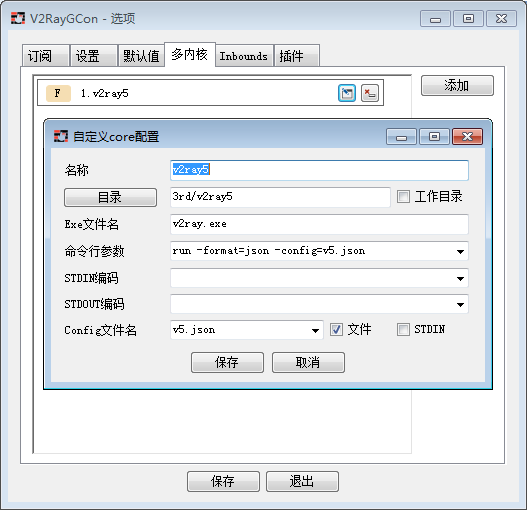
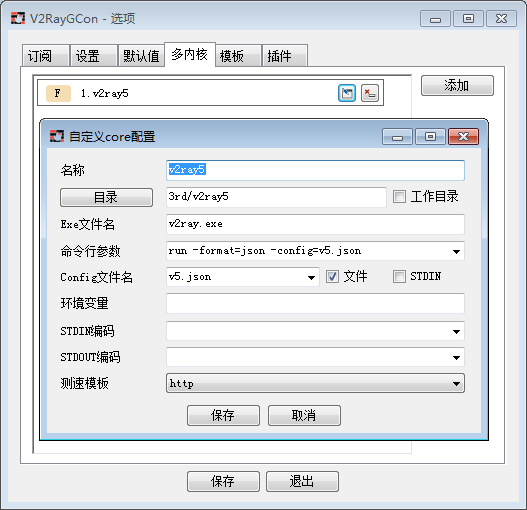
v1.8.6.0

diff --git a/content/01-usage/15-custom-inbounds.md b/content/01-usage/15-custom-inbounds.md
@@ -7,29 +7,36 @@ weight: 15
 
 选项窗口的`默认值`分页可以修改导入链接的默认配置。
 {{< figure src="../../images/forms/form_option_defaults.png" >}}
-`默认模式`对应`Inbounds`分页的配置名字，软件自带了config, http, socks三种配置，可以自行修改、添加更多配置  
+`默认模式`对应`模板`分页的配置名字，软件自带了config, http, socks三种配置，可以自行修改、添加更多配置  
 `默认core`对应`多内核`分页的配置名字  
 `解码模板`用于修改（仅限）vmess协议的outbounds配置。具体参考[vmess outbound模板](https://raw.githubusercontent.com/vrnobody/V2RayGCon/master/V2RayGCon/Resources/Files/templates/custom/vmessDecodeTemplate.json)  
 
-##### Inbounds(分页)
-{{< figure src="../../images/forms/form_custom_inbound_editor.png" >}}
-上面是http配置模板示例。模板中的`%host%`和`%port%`将会替换成`默认值`分页中的`默认地址`。模板不一定是json，也可以是yaml或者任意text。不过v1.8.5对yaml的支持比较弱鸡，只会简单的替换第一层key。而text类型的模板则直接插入到config的顶部。这样看文字比较抽象，建议自己添加几个不同类型的Inbounds，然后看服务器最终配置。注意模板的类型要和服务器config的类型对应，如果把一个yaml类型的模板应用到一个json类型的config会失效。  
+##### 模板(分页)
+{{< figure src="../../images/forms/form_custom_config_template_editor.png" >}}
+上面是http配置模板示例。合并方式只对json类型的模板生效。其中ByTag的合并规则类似于v2ray的多文件配置。模板中的`%host%`和`%port%`将会替换成`默认值`分页中的`默认地址`。模板不一定是json，也可以是yaml或者任意text。不过目前对yaml的支持比较弱鸡，只会简单的替换第一层key。而text类型的模板则直接插入到config的顶部。这样看文字比较抽象，建议自己添加几个不同类型的模板，然后看服务器最终配置的变化。注意模板的类型要和服务器config的类型对应，如果把一个yaml类型的模板应用到一个json类型的config会失效。  
 
 ##### 最终配置
-Text编辑器里面看到的config是解码分享链接后生成的原始配置。在传给core前需要做点处理。比如，选项窗口中钩选了uTLS，那么就要在config里面添加fingerprint配置项。还有流量统计、自签名证书以及inbound这些设置也要翻译成相应的配置添加到config当中。这样处理之后得到的就是“最终配置”，即传给core的config。  
+Text编辑器里面看到的config是解码分享链接后生成的原始配置。在传给core前需要做点处理。比如，选项窗口中钩选了uTLS，那么就要在config里面添加fingerprint配置项。还有流量统计、自签名证书以及inbound等设置也要转换成相应的配置合并进config里面。这样处理之后得到的就是“最终配置”，即传给core的config。  
 
 ##### 多内核(分页)
 {{< figure src="../../images/forms/form_option_custom_core.png" >}}
-这个软件默认支持xray和v2ray v4.x内核。其他内核可以在`多内核`分页里面添加。上面是一个v2ray v5.x的配置例子。这里配置完成后可以回`默认值`分页选择`默认core`。使用自定义core时，流量统计功能失效。如果需要生成config文件，注意文件名(v5.json)要和命令行参数一致。生成的文件位于软件目录内。为了减少（不知道怎么避免）并发读写同一配置文件时发生冲突，连续写盘间隔设定为3秒。  
+这个软件默认支持xray和v2ray v4.x内核。其他内核可以自行在`多内核`分页里面添加。上面是一个v2ray v5.x的例子。这里配置完成后可以回`默认值`分页选择`默认core`。使用自定义core时，流量统计功能失效。如果需要生成config文件，注意文件名(v5.json)要和命令行参数一致。生成的配置文件(v5.json)位于软件目录内。为了减少（不知道怎么避免）并发读写同一配置文件时发生冲突，连续写盘间隔设定为3秒。  
 
-“环境变量” 可以用逗号分隔多个变量，例如：A=123, B=abc  
-“测速Inb.模板” 对应Inbounds分页里面的配置名字。%host%将替换为127.0.0.1, %port%替换为随机端口。测速时合并到最终配置然后启动core。如果选“无”将生成一个http协议json格式的inbound合并到最终配置。  
+环境变量：  
+可以用逗号分隔多个变量，例如：A=123, B=abc  
+  
+测速模板：  
+测速的原理是启动一个入口为HTTP协议的代理服务器，然后测量通过这个代理去下载网页所用的时间。不同core的入口配置会有差异，所以不能直接套用xray/v2ray的HTTP inbound配置。用户可以通过测速模板来配置合适的HTTP inbound，从而给自定义core测速。配置方式参考软件自带的http模板，测速时%host%将替换为127.0.0.1, %port%替换为随机端口。为了兼容旧版本，测速模板有个“无”选项。它其实是xray/v2ray的HTTP inbound。  
 
 ##### 导入以后修改设置
-上面的设置仅对新导入的服务器生效，已经导入的服务器可以在`设定及二维码`面板中修改相应的设置。  
+上面的设置仅对新导入的服务器生效，已经导入的服务器可以在服务器设置面板中修改相应的设置。  
 {{< figure src="../../images/forms/form_settings_and_qrcode.png" >}}
-提示：点击青色的 (http) 标签可以快速调出`设定及二维码`窗口。
+Inbound和内核名对应选项窗口默认值分页中的默认模式和默认core。  
+模板：用于给服务器添加通用配置。假设我想给某几个服务器添加routing配置，那么就可以在选项窗口里面添加一个名为routing的模板。然后在上面的窗口中点“*模板”按钮，勾选routing模板。添加模板后的配置可以在“最终配置”里面查看。  
 
-同时修改多个服务器时，在钩选多个服务器以后点击“主窗口”-“服务器”-“批量修改”即可。 
+提示：点击青色的 (http) 标签可以快速调出服务器设置窗口。
+
+##### 同时修改多个服务器
 {{< figure src="../../images/forms/form_batch_modify.png" >}}
+钩选多个服务器然后点击“主窗口”-“服务器”-“批量修改”即可。 
 

diff --git a/content/01-usage/16-share-links.md b/content/01-usage/16-share-links.md
@@ -15,15 +15,15 @@ weight: 16
 
 ##### v://...
 
-`v1.8.4`起不再支持`v://...`链接  
-
 这是本软件自创的一种分享链接。`简易编辑器`里的各种配置组合都可以用这种链接导入、导出。  
 它又叫做vee链接，主要特点是短，编码思想出自v2ray-core [issue 1392][2]。具体实现可以看[VeeDecoder.cs][1]，不过代码是用Component的方式写的，比较散比较乱。  
 
-##### v2cfg://...
-这也是本软件自创的一种分享链接。它直接把整个config.json进行base64编码得出，主要用于备份/还原数据。因为v2ray功能过于强大，有可能被有心人利用，通过revers把本地端口暴露到公网，所以这种链接除了`主窗口`-`文件`-`从剪切板导入`外，其他地方都不能导入。  
+注意！`v1.8.4`起不再支持`v://...`链接。  
 
-`v1.8.5` 起`v2cfg://...`升级到ver2，旧客户端导出的ver1链接可以在新客户端导入，但如果用旧客户端导入ver2链接就会出错。ver2链接内部还是使用json格式，name字段放服务器名，hash放校验码，config则是完整的服务器配置，序列化后gzip压缩成二进制，最后base64编码成文本。详见[V2Cfg.cs](https://github.com/vrnobody/V2RayGCon/blob/master/VgcApis/Models/Datas/V2Cfg.cs)  
+##### v2cfg://...
+这也是本软件自创的一种分享链接，主要用于备份、还原数据，目前有两个版本。ver1直接把整个config.json进行base64编码得出。`v1.8.5`起v2cfg://...升级为ver2。它内部使用json格式，序列化后gzip压缩成二进制，最后base64编码成文本，细节见[V2Cfg.cs](https://github.com/vrnobody/V2RayGCon/blob/master/VgcApis/Models/Datas/V2Cfg.cs)。旧版客户端导出的ver1链接可以在新版客户端导入，但旧版客户端无法导入ver2链接。升级到ver2主要目的是支持yaml等其他配置格式。  
+
+因为v2ray功能过于强大，有可能被有心人利用，通过revers把本地端口暴露到公网，所以v2cfg://...链接除了`主窗口`-`文件`-`从剪切板导入`外，其他地方都不能导入。  
 
 ##### vless://...
 `v1.5.2`起支持Xray-core [issues 91](https://github.com/XTLS/Xray-core/issues/91)提出的vless分享链接标准  
@@ -40,9 +40,9 @@ p.s. 这个学院派的标准设想得很美好，然而经过两年多（2023-0
 1. host:port之间有冒号，但IPv6地址里面也有冒号，所以不要对整个链接split(":")  
 2. query前面有时候是"?"有时候是"/?"，但不要用split("/", "?")，因为有些链接的alpn没按标准转义，直接填"h2,http/1.1"  
 3. HTML会把&转义成&amp;amp;但这还没完，在某些基于网页的应用里复制、粘贴&amp;amp;会变成&amp;amp;amp;依此类推。最近有些分享链接还玩出新花样，把&替换成\u0026，这已经不符合URI标准了  
-4. 有些分享链接会把reality的serverName填在host里而而不是sni之中。当然这属于乱搞了，不能算分享链接标准的坑了  
+4. 有些分享链接会把reality的serverName填在host里而不是sni之中。当然这属于乱搞了，不能算分享链接标准的坑了  
 
-上面分解链接的坑表面上看是因为没遵守标准，其实深层的原因是标准太依赖君子协定式的转义。很多人喜欢手搓URI编、解码代码导致转义要求没有约束力。举个反例JSON就没多少人手搓编、解码代码，转义会规范很多。（其实V2RayGCon也有不按标准来的地方，为了偷懒IPv6没套中括号还顺带做了URI转义）。提取链接的坑则是因为手搓编、解码的参数值没有转义直接使用明文，难以和其他文本区分。JSON也有难以区分的缺陷也不适合用做链接主体。目前最容易提取的是没加#号尾巴的base64。  
+上面分解链接的坑表面上看是因为没遵守标准，其实深层的原因是标准太依赖君子协定式的转义。很多人喜欢手搓URI编、解码代码导致转义要求没有约束力。举个反例JSON就没多少人手搓编、解码代码，转义会规范很多。提取链接的坑则是因为手搓编、解码的参数值没有转义直接使用明文，难以和其他文本区分。JSON也有难以区分的缺陷也不适合用做链接主体。目前最容易提取的是没加#号尾巴的base64。  
 
 在这里发一堆牢骚是因为vless://...的解码代码我已经改了不下十次。然而人们群众的智慧是无限的，相信过不了多久又要改代码。希望有缘看到这里的小伙伴少踩点坑。也希望以后要是有新的协议需要定制分享链接标准时，请多从实用的角度考虑，不要老想着往一个本来就不是为分享链接设计的标准去靠。  
 

diff --git a/content/04-dev/03-concepts.md b/content/04-dev/03-concepts.md
@@ -9,12 +9,12 @@ weight: 4
 因为以下原因，这个软件没有分组功能：  
  1. 分组是个层级结构，增加数据处理复杂度  
  2. 分组其实是按单个属性（组名）归类，如果想把一个服务器同时分进多个组就不太好处理  
+ 3. 服务器数量很多时分组失效。假设一开始有100个服务器，分5组每组20个服务器，一切都很好。但是如果服务器数量增加到5000个，就算分10组每组也有500个服务器。这时每组的服务器数比原来总数还多，并不好管理  
 
-这个软件采用贴标签的方式来管理服务器。当前有 `标记(mark)` 和 `备注(remark)` 两种标签，其实就是多属性归类。  
-`v1.6`又添加了tag1-3共三个给Lua脚本使用的标签。  
+这个软件采用贴标签的方式来管理服务器。GUI提供 `标记(mark)` 和 `备注(remark)` 两个主标签，其实就是多属性归类。还可以通过NeoLuna插件用lua脚本设置tag1, tag2, tag3三个附加标签。  
 
 ##### 插件
-出于安全考虑以前只有内置插件，从`v1.8.3`起又支持第三方插件。  
+出于安全考虑以前只有内置插件，从`v1.8.3`起又重新支持第三方插件。  
 
 ##### MailBox
-这是Luna插件Sys库里的一个小功能。最初是想给不同脚本提供一个相互通信的途径于是做了个MailBox。原理其实很简单，就是模拟了现实生活中的寄信过程。但是这个功能做出来之后我都没遇到过需要多个脚本之间通信的情况。所以这个功能就荒废了吗？其实没有并没有。后来发现他还能用在.net(c#)和lua之间通信。其实Luna插件里面的全局热键、事件响应、task.lua（更易用的协程）以及v1.6.9推出的Web UI都是这个小小的MailBox撑起来的。这是一个很神奇的小功能。  
+这起源于Luna插件Sys库。最初是想给不同脚本提供一个相互通信的途径于是做了个MailBox。原理很简单，就是模拟了现实生活中的寄信过程。但是这个功能做出来之后我都没遇到过需要多个脚本之间通信的情况。所以这个功能就荒废了吗？并没有。后来发现他还能用在.net(c#)和lua之间通信。其实Luna插件里面的全局热键、事件响应、task.lua（更易用的协程）以及v1.6.9推出的Web UI都是这个小小的MailBox撑起来的。这是一个很神奇的小功能。  

diff --git a/content/04-dev/01-release-log.md b/content/04-dev/01-release-log.md
@@ -5,6 +5,14 @@ draft: false
 weight: 1
 ---
 
+##### `v1.8.6.0`
+删除userSettings.json里面一些过时的配置项  
+Text编辑器里面添加简单编辑器  
+选项窗口Inbounds分页改名为模板分页  
+自定义core添加 环境变量 和 测速模板 配置项  
+提高主窗口响应速度  
+减少并发测速时线程占用数  
+
 ##### `v1.8.5.0`
 删除Json编辑器，简易编辑器，全局Import，多文件配置功能  
 删除config.json里面的v2raygcon分节  

diff --git a/content/03-plugins/02-pacman.md b/content/03-plugins/02-pacman.md
@@ -5,7 +5,7 @@ draft: false
 weight: 30
 ---
 
-这个插件用于将多个服务器合并成一个服务器包。
+这个插件用于将多个服务器合并成一个服务器包。仅支持使用json格式的xray/v2ray服务器。  
 
 首先在主窗口中钩选你想合并的服务器，然后点“拉取”小按钮。  
 也可以直接从主窗口拖服务器到“内容”中的空白区。  
